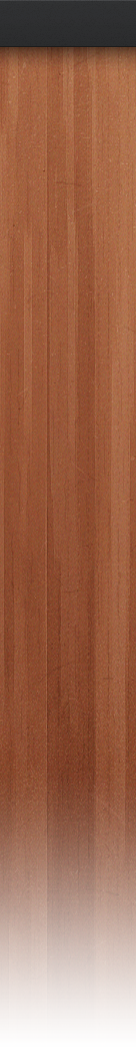
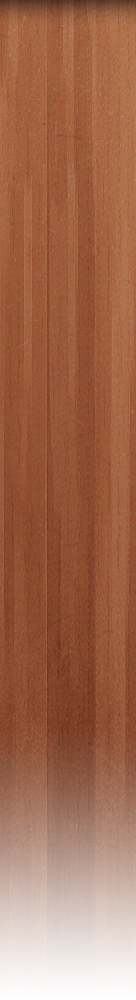
* update search field etc

Changed region(s): [[0.0, 0.0, 1.0, 0.062], [0.0, 0.093, 0.0294, 0.124]]

diff --git a/templates/header.html b/templates/header.html
@@ -1,17 +1,13 @@
-<div class="menu">
-  <div class="section">
-    <div class="side-column">
-      <form id="searchbox">
-        <input name="query" class="searchbox" type="text" placeholder="Search Articles" title="Do a full-text search of all articles on nodebits"/>
-      </form>
-    </div>
-  </div>
-</div >
 <div class="section header">
   <a href="/">
     <img width="727" height="224" class="logo" src="/header_illu.png" alt="Nodebits - Bits of inspiration to keep the node spirit alive"/>
   </a>
   <div class="follow side-column">
+    <div class="side-column">
+      <form id="searchbox">
+        <input name="query" class="searchbox" type="text" placeholder="Search Articles" title="Do a full-text search of all articles on nodebits"/>
+      </form>
+    </div>
     <h2>Follow us:</h2>
     <a href="{req.uri.pathname.length===1?"":req.uri.pathname}/feed.xml" class="rss button" title="Subscribe to the RSS feed"></a>
     <a href="https://twitter.com/Nodebits" class="twitter button" title="Follow us on Twitter"></a>

diff --git a/resources/style.css b/resources/style.css
@@ -268,10 +268,8 @@ img {
   width: 616px;
   margin-top: 20px;
 }
-.menu {
+.searchbox {
   height: 47px;
-}
-.menu .searchbox {
   margin: 10px 0;
   display: inline-block;
   height: 19px;
@@ -320,9 +318,9 @@ img {
 }
 .body .main-column {
   background: #fff;
-  -webkit-box-shadow: 0 0 10px #000;
-  -moz-box-shadow: 0 0 10px #000;
-  box-shadow: 0 0 10px #000;
+  -webkit-box-shadow: 0 3px 5px #000;
+  -moz-box-shadow: 0 3px 5px #000;
+  box-shadow: 0 3px 5px #000;
   padding-bottom: 10000px;
   margin-bottom: -10000px;
 }
